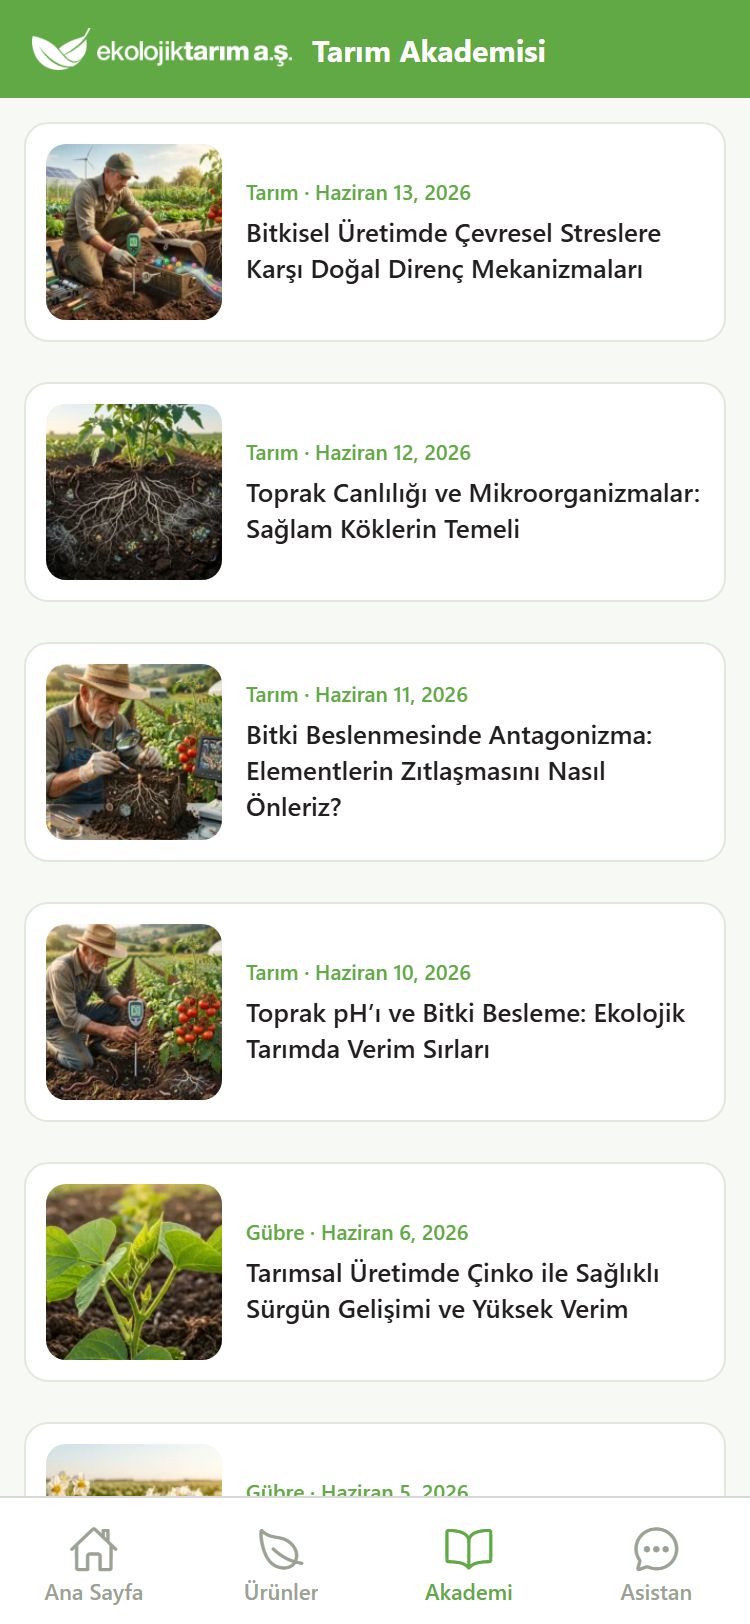
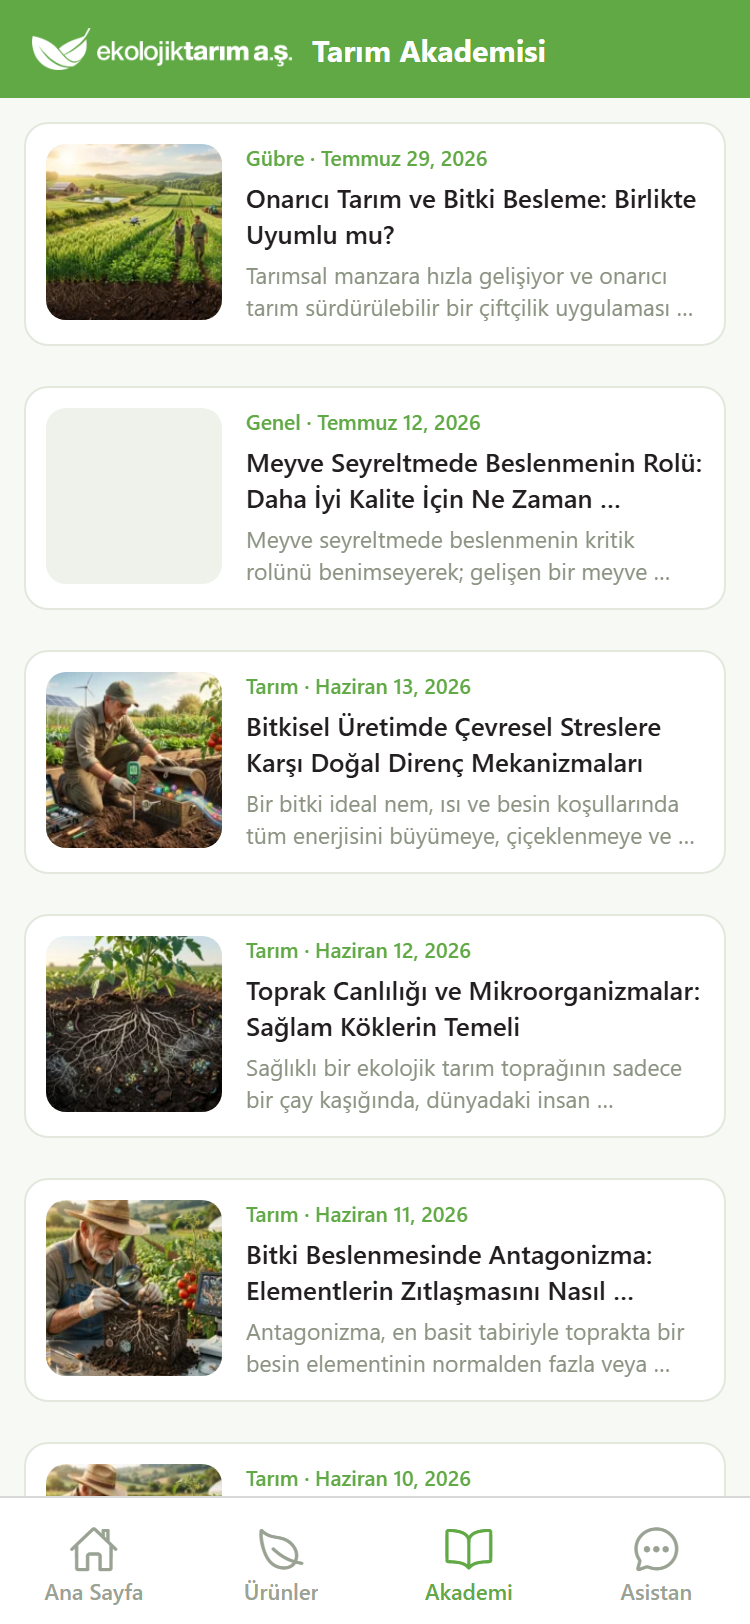
Show a two-line excerpt on academy cards
Rendering the excerpt under the title exposed that 8 of them opened by
repeating that same title, so the scraper now picks the first paragraph
that does not restate the headline.

diff --git a/mobile-app/app/(tabs)/articles.tsx b/mobile-app/app/(tabs)/articles.tsx
@@ -55,9 +55,14 @@ export default function ArticlesScreen() {
               )}
               <View style={styles.cardText}>
                 <Text style={styles.cardCategory}>{a.category} · {a.date}</Text>
-                <Text style={styles.cardTitle} numberOfLines={3}>
+                <Text style={styles.cardTitle} numberOfLines={2}>
                   {a.title}
                 </Text>
+                {a.excerpt ? (
+                  <Text style={styles.cardExcerpt} numberOfLines={2}>
+                    {a.excerpt}
+                  </Text>
+                ) : null}
               </View>
             </TouchableOpacity>
           ))}
@@ -87,4 +92,5 @@ const styles = StyleSheet.create({
   cardText: { flex: 1, justifyContent: "center" },
   cardCategory: { fontSize: 10.5, color: colors.green, fontWeight: "600", marginBottom: 4 },
   cardTitle: { fontSize: 13, color: colors.dark, fontWeight: "600", lineHeight: 18 },
+  cardExcerpt: { fontSize: 11.5, color: colors.muted, lineHeight: 16, marginTop: 4 },
 });

diff --git a/tests/test_articles_scraper.py b/tests/test_articles_scraper.py
@@ -178,22 +178,58 @@ def test_excerpt_drops_a_leading_title_sentence(monkeypatch):
     assert excerpt.startswith("Bitkilerinizin yapraklarında")
 
 
-def test_excerpt_keeps_a_title_that_opens_a_sentence(monkeypatch):
-    """21 excerpts open with the title as the sentence's subject - cutting there
-    would leave a fragment starting with a comma."""
+def test_excerpt_skips_a_meta_that_opens_with_the_whole_title(monkeypatch):
+    """8 excerpts open with the title as their sentence subject. That was fine
+    while nothing rendered them, but the academy card now shows the excerpt
+    directly under the title, where it reads as the headline twice."""
     title = "Toprak Canlılığı ve Mikroorganizmalar: Sağlam Köklerin Temeli"
     html = f"""
     <html><head><meta name="description"
-        content="{title}, bitkilerinizin çevresel faktörlere karşı direncini artıran biyolojik sistemdir."></head>
+        content="{title}, bitkilerinizin çevresel faktörlere karşı direncini artırır."></head>
     <body><div class="elementor-widget-theme-post-content"><div class="elementor-widget-container">
-      <p>Gövde metni burada.</p>
+      <p>{title}, bitkilerinizin çevresel faktörlere karşı direncini artırır.</p>
+      <p>Sağlıklı bir toprağın bir çay kaşığında milyarlarca mikroorganizma bulunur.</p>
     </div></div></body></html>
     """
     _patch_fetch(monkeypatch, html)
 
     excerpt, _ = articles_scraper._fetch_content(None, "https://example.test/a/", title)
 
-    assert excerpt.startswith(title + ",")
+    assert excerpt.startswith("Sağlıklı bir toprağın")
+
+
+def test_excerpt_keeps_a_title_that_only_prefixes_a_longer_word(monkeypatch):
+    """One title is a prefix of the excerpt's first word ("...bağlantı" vs
+    "...bağlantıyı"), which is not a repeat."""
+    title = "Gübreleme ve toprak sağlığı arasındaki bağlantı"
+    html = f"""
+    <html><head><meta name="description"
+        content="{title}yı anlamanıza ve sürdürülebilir tarım uygulamalarını benimsemenize yardımcı olur."></head>
+    <body><div class="elementor-widget-theme-post-content"><div class="elementor-widget-container">
+      <p>Gövde metni burada yer alıyor ve konuyu ayrıntısıyla açıklıyor.</p>
+    </div></div></body></html>
+    """
+    _patch_fetch(monkeypatch, html)
+
+    excerpt, _ = articles_scraper._fetch_content(None, "https://example.test/a/", title)
+
+    assert excerpt.startswith(title + "yı anlamanıza")
+
+
+def test_excerpt_never_falls_back_to_a_section_heading(monkeypatch):
+    title = "Başlık"
+    html = """
+    <html><head></head>
+    <body><div class="elementor-widget-theme-post-content"><div class="elementor-widget-container">
+      <p><b>Görünmez İşçiler: Topraktaki Yaşam Ağı</b></p>
+      <p>Sağlıklı bir toprağın bir çay kaşığında milyarlarca mikroorganizma bulunur.</p>
+    </div></div></body></html>
+    """
+    _patch_fetch(monkeypatch, html)
+
+    excerpt, _ = articles_scraper._fetch_content(None, "https://example.test/a/", title)
+
+    assert excerpt.startswith("Sağlıklı bir toprağın")
 
 
 def test_excerpt_falls_back_to_the_first_paragraph_without_markup(monkeypatch):

diff --git a/src/articles_scraper.py b/src/articles_scraper.py
@@ -183,6 +183,23 @@ def _extract_blocks(body, title: str) -> list[str]:
     return blocks
 
 
+def _restates_title(text: str, title: str) -> bool:
+    """Does this summary open by repeating the whole headline?
+
+    The card renders the excerpt right under the title, so such an excerpt shows
+    the headline twice. The boundary check keeps a title that merely prefixes a
+    longer word ("...bağlantı" in "...bağlantıyı anlamanıza").
+    """
+    body, name = _normalize(text), _normalize(title)
+    if not name or not body.startswith(name):
+        return False
+    return not body[len(name):len(name) + 1].isalnum()
+
+
+def _shorten(text: str, limit: int = 200) -> str:
+    return text if len(text) <= limit else text[:limit].rsplit(" ", 1)[0] + "..."
+
+
 def _clean_excerpt(excerpt: str, title: str) -> str:
     """Drop a meta description that only restates the title.
 
@@ -207,6 +224,23 @@ def _clean_excerpt(excerpt: str, title: str) -> str:
     return text
 
 
+def _pick_excerpt(meta: str, blocks: list[str], title: str) -> str:
+    """The card summary: the meta description, or the first prose paragraph that
+    does not simply repeat the headline. Section headings are never a summary."""
+    cleaned = _clean_excerpt(meta, title)
+    if cleaned and not _restates_title(cleaned, title):
+        return cleaned
+
+    for block in blocks:
+        if block.startswith("**"):
+            continue
+        text = block.lstrip("- ").strip()
+        if text and not _restates_title(text, title):
+            return _shorten(text)
+
+    return cleaned
+
+
 def _fetch_content(session: requests.Session, url: str, title: str = "") -> tuple[str, str]:
     """Return (excerpt, full_content) for an article detail page."""
     soup = fetch(session, url, "articles")
@@ -218,12 +252,7 @@ def _fetch_content(session: requests.Session, url: str, title: str = "") -> tupl
     blocks = _extract_blocks(body, title) if body else []
     content = "\n\n".join(blocks)
 
-    excerpt = _clean_excerpt(extract_meta_description(soup), title)
-    if not excerpt and blocks:
-        first = blocks[0].replace("*", "").lstrip("- ")
-        excerpt = first if len(first) <= 200 else first[:200].rsplit(" ", 1)[0] + "..."
-
-    return excerpt, content
+    return _pick_excerpt(extract_meta_description(soup), blocks, title), content
 
 
 def crawl(max_articles: int = 60) -> list[Article]:
